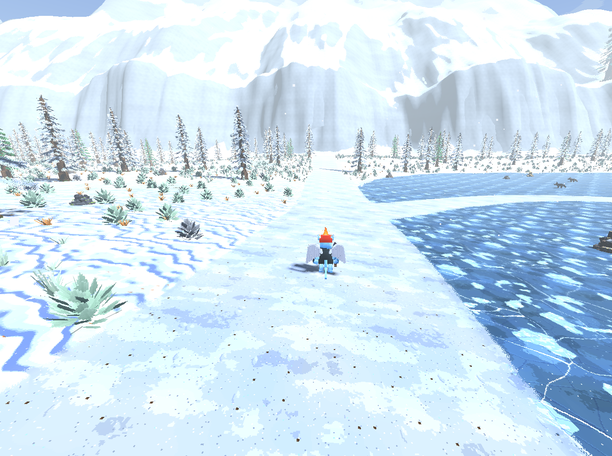
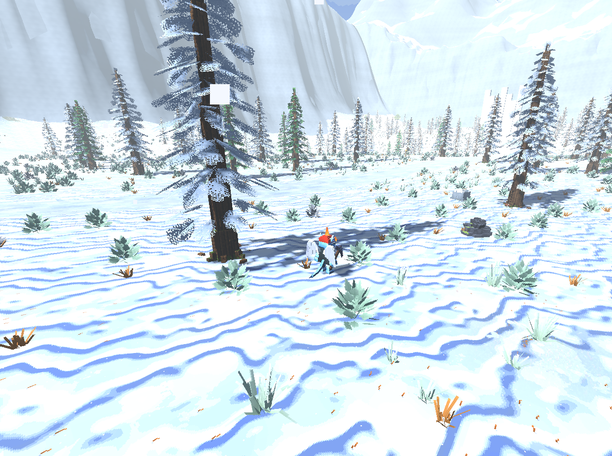
Poster: HD text, new frost shot
- All text is drawn at full 1920x1080 resolution with smoothing instead of on
  the 640x360 pixel canvas.
- Title, headers and the December banner use Lilita One (SIL OFL, bundled in
  tools/posters/fonts with its licence); the gold title gets a dark outline.
  Pixelify's Z read as a 2 in "IMPZ".
- Small labels use Arimo Bold, the game's plain text style.
- Frost screenshot retaken among the snowy pines at (625, -30), away from the
  frozen lake by the spawn.

diff --git a/tools/posters/first_release_poster.py b/tools/posters/first_release_poster.py
@@ -20,7 +20,8 @@ ROOT = Path(__file__).resolve().parents[2]
 HEROES_3D = "--3d" in sys.argv
 OUT = ROOT / ("docs/images/posters/first_release_poster_3d.png" if HEROES_3D else "docs/images/posters/first_release_poster.png")
 RENDERS = ROOT / "docs/images/posters/first_release_impz_3d"
-FONT = ROOT / "godot-game/ui/fonts/PixelifySans.ttf"
+FONT = ROOT / "tools/posters/fonts/LilitaOne-Regular.ttf"   # title and headers (SIL OFL, fonts/OFL.txt)
+SANS = ROOT / "godot-game/ui/fonts/Arimo.ttf"              # small labels (the game's plain "Arial" text style)
 ITEMS = ROOT / "godot-game/assets/sprites/source/items"
 PICKAXES = ROOT / "godot-game/assets/sprites/source/pickaxes"
 BODIES = ROOT / "docs/imp-traits/bodies"
@@ -70,10 +71,11 @@ draw = ImageDraw.Draw(img)
 draw.fontmode = "1"     # no anti-aliasing on text
 
 
-def font(size, bold=False):
-    f = ImageFont.truetype(str(FONT), size)
-    if bold:
-        f.set_variation_by_name("Bold")   # Pixelify Sans is a variable font, 400 to 700
+def font(size, bold=False, sans=False):
+    """Arimo is variable (weight 400 to 700). Text is drawn at full resolution, so `size` may be fractional."""
+    f = ImageFont.truetype(str(SANS if sans else FONT), round(size * SCALE))
+    if bold and sans:
+        f.set_variation_by_name("Bold")
     return f
 
 
@@ -193,16 +195,27 @@ def pill(x0, y0, w, h, fill, lip=2):
             put(x0 + x, y0 + y, col)
 
 
-def text(x, y, s, size, color, shadow=2, anchor="la", bold=False):
-    f = font(size, bold)
-    if shadow:
-        draw.text((x + shadow, y + shadow), s, font=f, fill=OUTLINE, anchor=anchor)
-    draw.text((x, y), s, font=f, fill=color, anchor=anchor)
+texts = []   # drawn last, on the full 1920 x 1080 image, smooth and sharp (art coordinates x SCALE)
 
 
-def text_w(s, size, bold=False):
-    b = font(size, bold).getbbox(s)
-    return b[2] - b[0]
+def text(x, y, s, size, color, shadow=2, anchor="la", bold=False, sans=False, stroke=0):
+    texts.append((x, y, s, size, color, shadow, anchor, bold, sans, stroke))
+
+
+def text_w(s, size, bold=False, sans=False):
+    b = font(size, bold, sans).getbbox(s)
+    return (b[2] - b[0]) / SCALE
+
+
+def draw_texts(big):
+    d = ImageDraw.Draw(big)
+    for x, y, s, size, color, shadow, anchor, bold, sans, stroke in texts:
+        f = font(size, bold, sans)
+        X, Y = round(x * SCALE), round(y * SCALE)
+        if shadow:
+            o = shadow * 3      # a solid drop shadow, down and right
+            d.text((X + o, Y + o), s, font=f, fill=OUTLINE[:3], anchor=anchor, stroke_width=stroke, stroke_fill=OUTLINE[:3])
+        d.text((X, Y), s, font=f, fill=color[:3], anchor=anchor, stroke_width=stroke, stroke_fill=OUTLINE[:3])
 
 
 def paste(im, x, y, scale=1):
@@ -213,10 +226,10 @@ def paste(im, x, y, scale=1):
 
 def gold_tab(x, y, s, size=16):
     """A menu title: gold text with the dark drop shadow, on a small dark tab."""
-    w = text_w(s, size) + 14
+    w = round(text_w(s, size, bold=True)) + 16
     h = size + 6
     panel(x, y, w, h, fill=BG, studs=False)
-    text(x + 7, y + h // 2 + 1, s, size, GOLD, shadow=1, anchor="lm")
+    text(x + 8, y + h / 2, s, size, RARE, shadow=1, anchor="lm")
     return w, h
 
 
@@ -255,8 +268,7 @@ shot_slots = []          # (art x, art y, art w, art h, file): pasted at full si
 
 def place_tile(x, y, w, h, name, shot):
     """Small gold title above, gold frame below; the screenshot goes inside the frame."""
-    tw = text_w(name, 12)
-    text(x + w // 2 - tw // 2, y, name, 12, RARE, shadow=1)
+    text(x + w / 2, y + 6, name, 11, RARE, shadow=1, anchor="mm", bold=True, sans=True)
     ty = y + 13
     inset = panel(x, ty, w, h, fill=None)
     shot_slots.append((x + inset, ty + inset, w - 2 * inset, h - 2 * inset, SHOTS / f"{shot}.png"))
@@ -327,20 +339,19 @@ for n, (a, b, icon) in enumerate(FEATURES):
     slot(cx + 2, FY + 12, 52, 52)
     paste(icon, cx + 4, FY + 14)
     for k, s in enumerate((a, b)):
-        text(cx + CW // 2 - text_w(s, 12) // 2, FY + 64 + k * 11, s, 12, KEY, shadow=1)
+        text(cx + CW / 2, FY + 70 + k * 11, s, 10, KEY, shadow=1, anchor="mm", bold=True, sans=True)
 
 # ---------------------------------------------------------------- left: title
 
 LX, LW = 8, 236
-tw = text_w("CLUB IMPZ", 48, bold=True)
-text(LX + LW // 2 - tw // 2, 0, "CLUB IMPZ", 48, GOLD, shadow=2, bold=True)
+text(LX + LW / 2, 26, "CLUB IMPZ", 50, RARE, shadow=2, anchor="mm", stroke=5)
 sub = "A SOCIAL MMO"
-text(LX + LW // 2 - text_w(sub, 12) // 2, 48, sub, 12, MUTED, shadow=1)
+text(LX + LW / 2, 56, sub, 11, MUTED, shadow=1, anchor="mm", bold=True, sans=True)
 # COMING DECEMBER! on a raised amber pill
 cd = "COMING DECEMBER!"
-pw = text_w(cd, 24) + 20
+pw = round(text_w(cd, 22)) + 28
 pill(LX + LW // 2 - pw // 2, 64, pw, 30, ENERGY, lip=3)
-draw.text((LX + LW // 2, 64 + 13), cd, font=font(24), fill=OUTLINE, anchor="mm")
+text(LX + LW / 2, 64 + 13.5, cd, 22, OUTLINE, shadow=0, anchor="mm", bold=True)
 
 # ---------------------------------------------------------------- left: heroes
 
@@ -388,6 +399,7 @@ for x, y, w, h, f in shot_slots:      # the screenshots stay sharp: full screen 
 for f, x, y, size in hero_slots:
     r = Image.open(f).convert("RGBA").resize((size * SCALE, size * SCALE), Image.LANCZOS)
     big.paste(r, (x * SCALE, y * SCALE), r)
+draw_texts(big)
 tmp = OUT.with_name(OUT.stem + ".tmp.png")
 big.save(tmp)
 tmp.replace(OUT)
